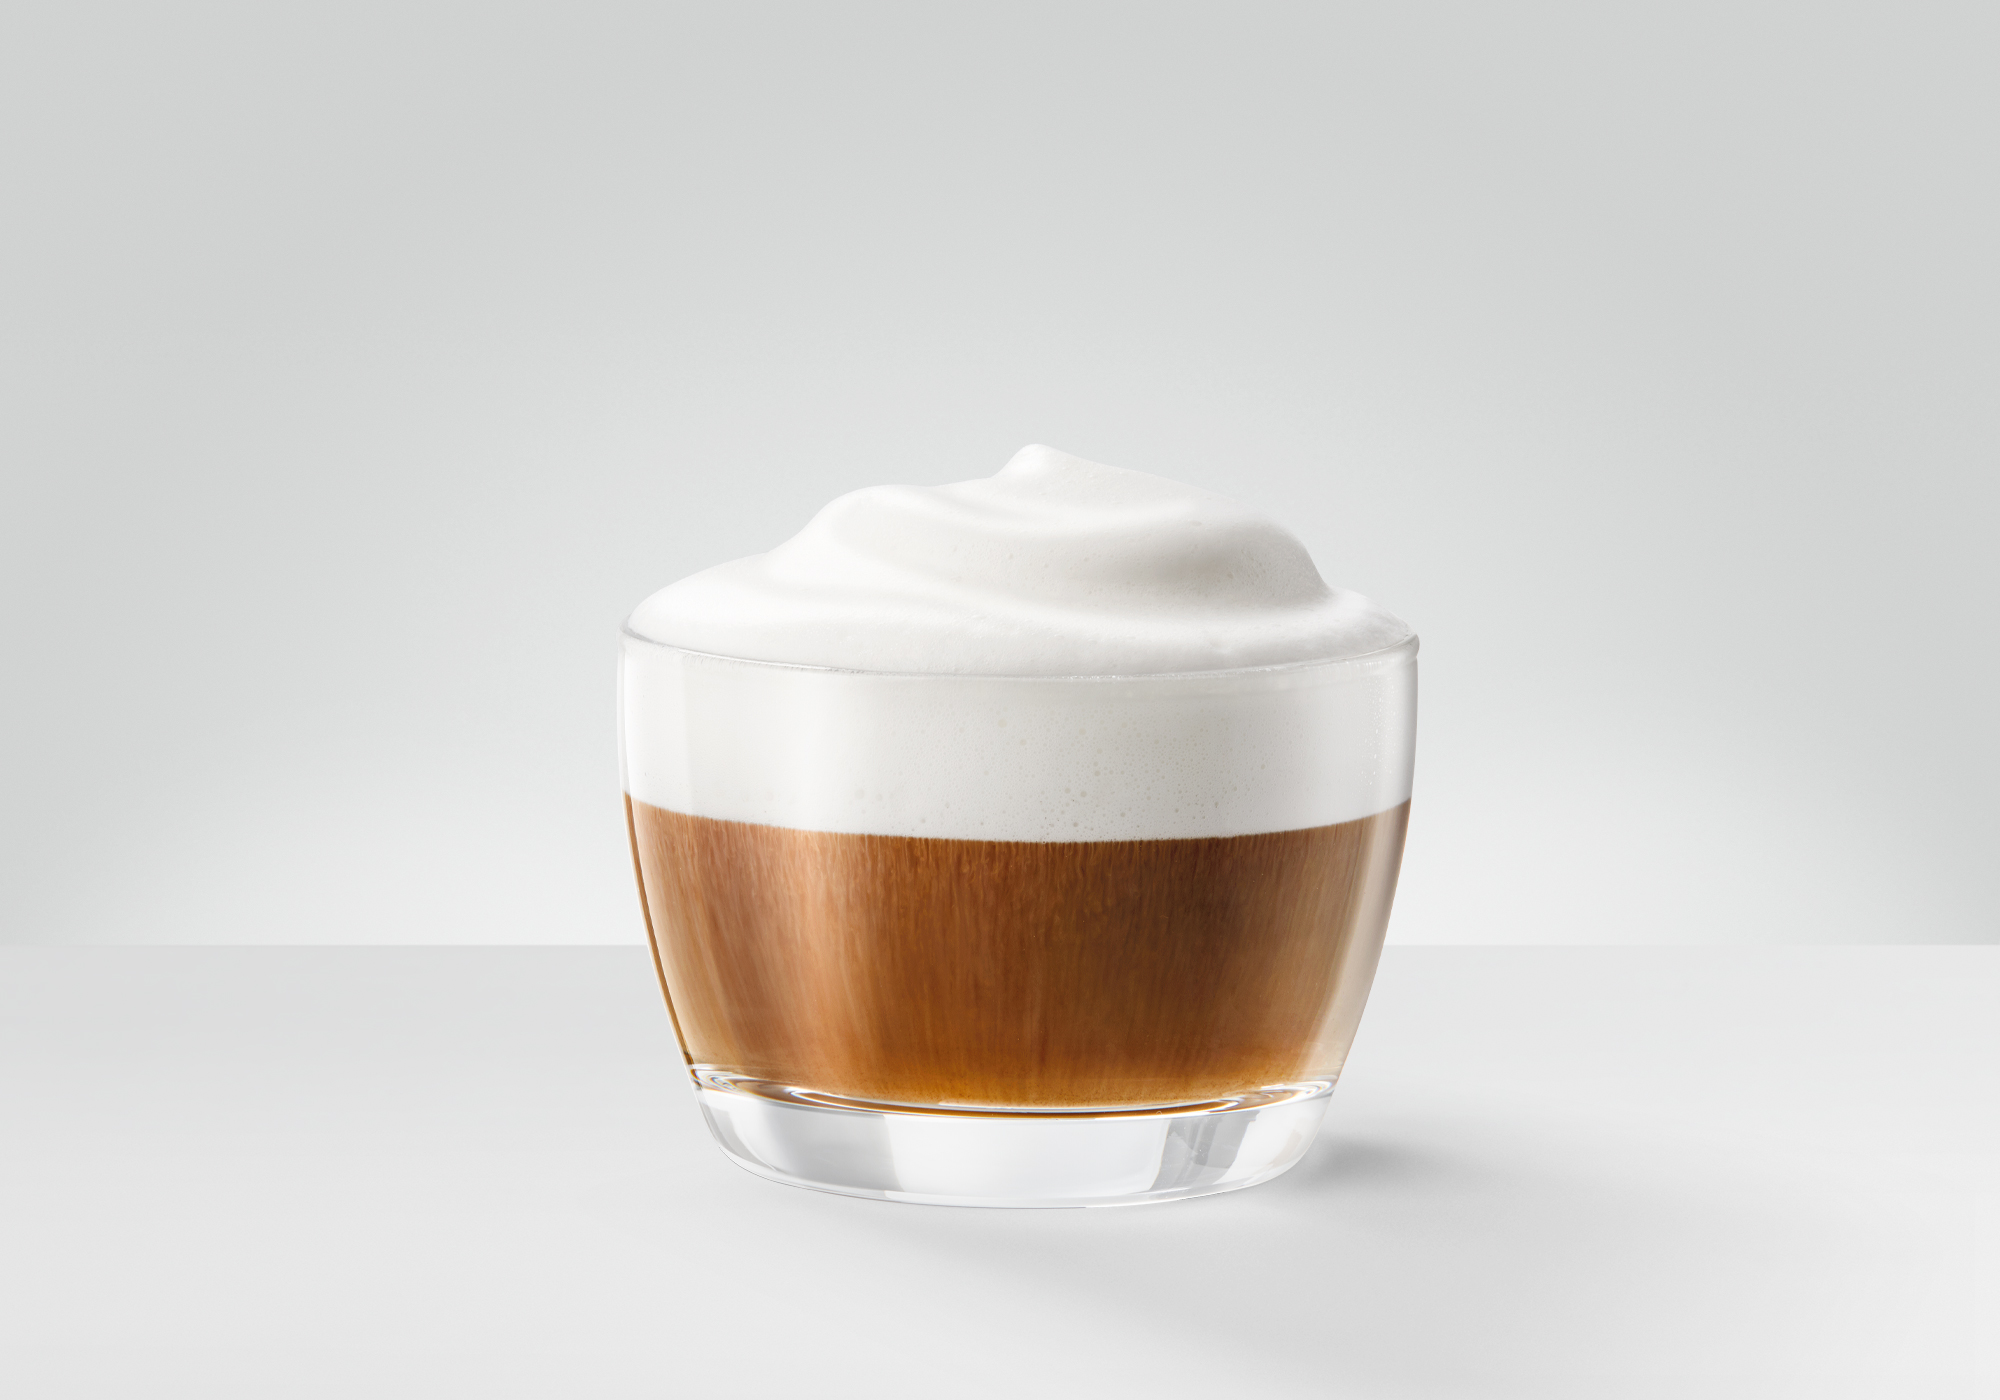
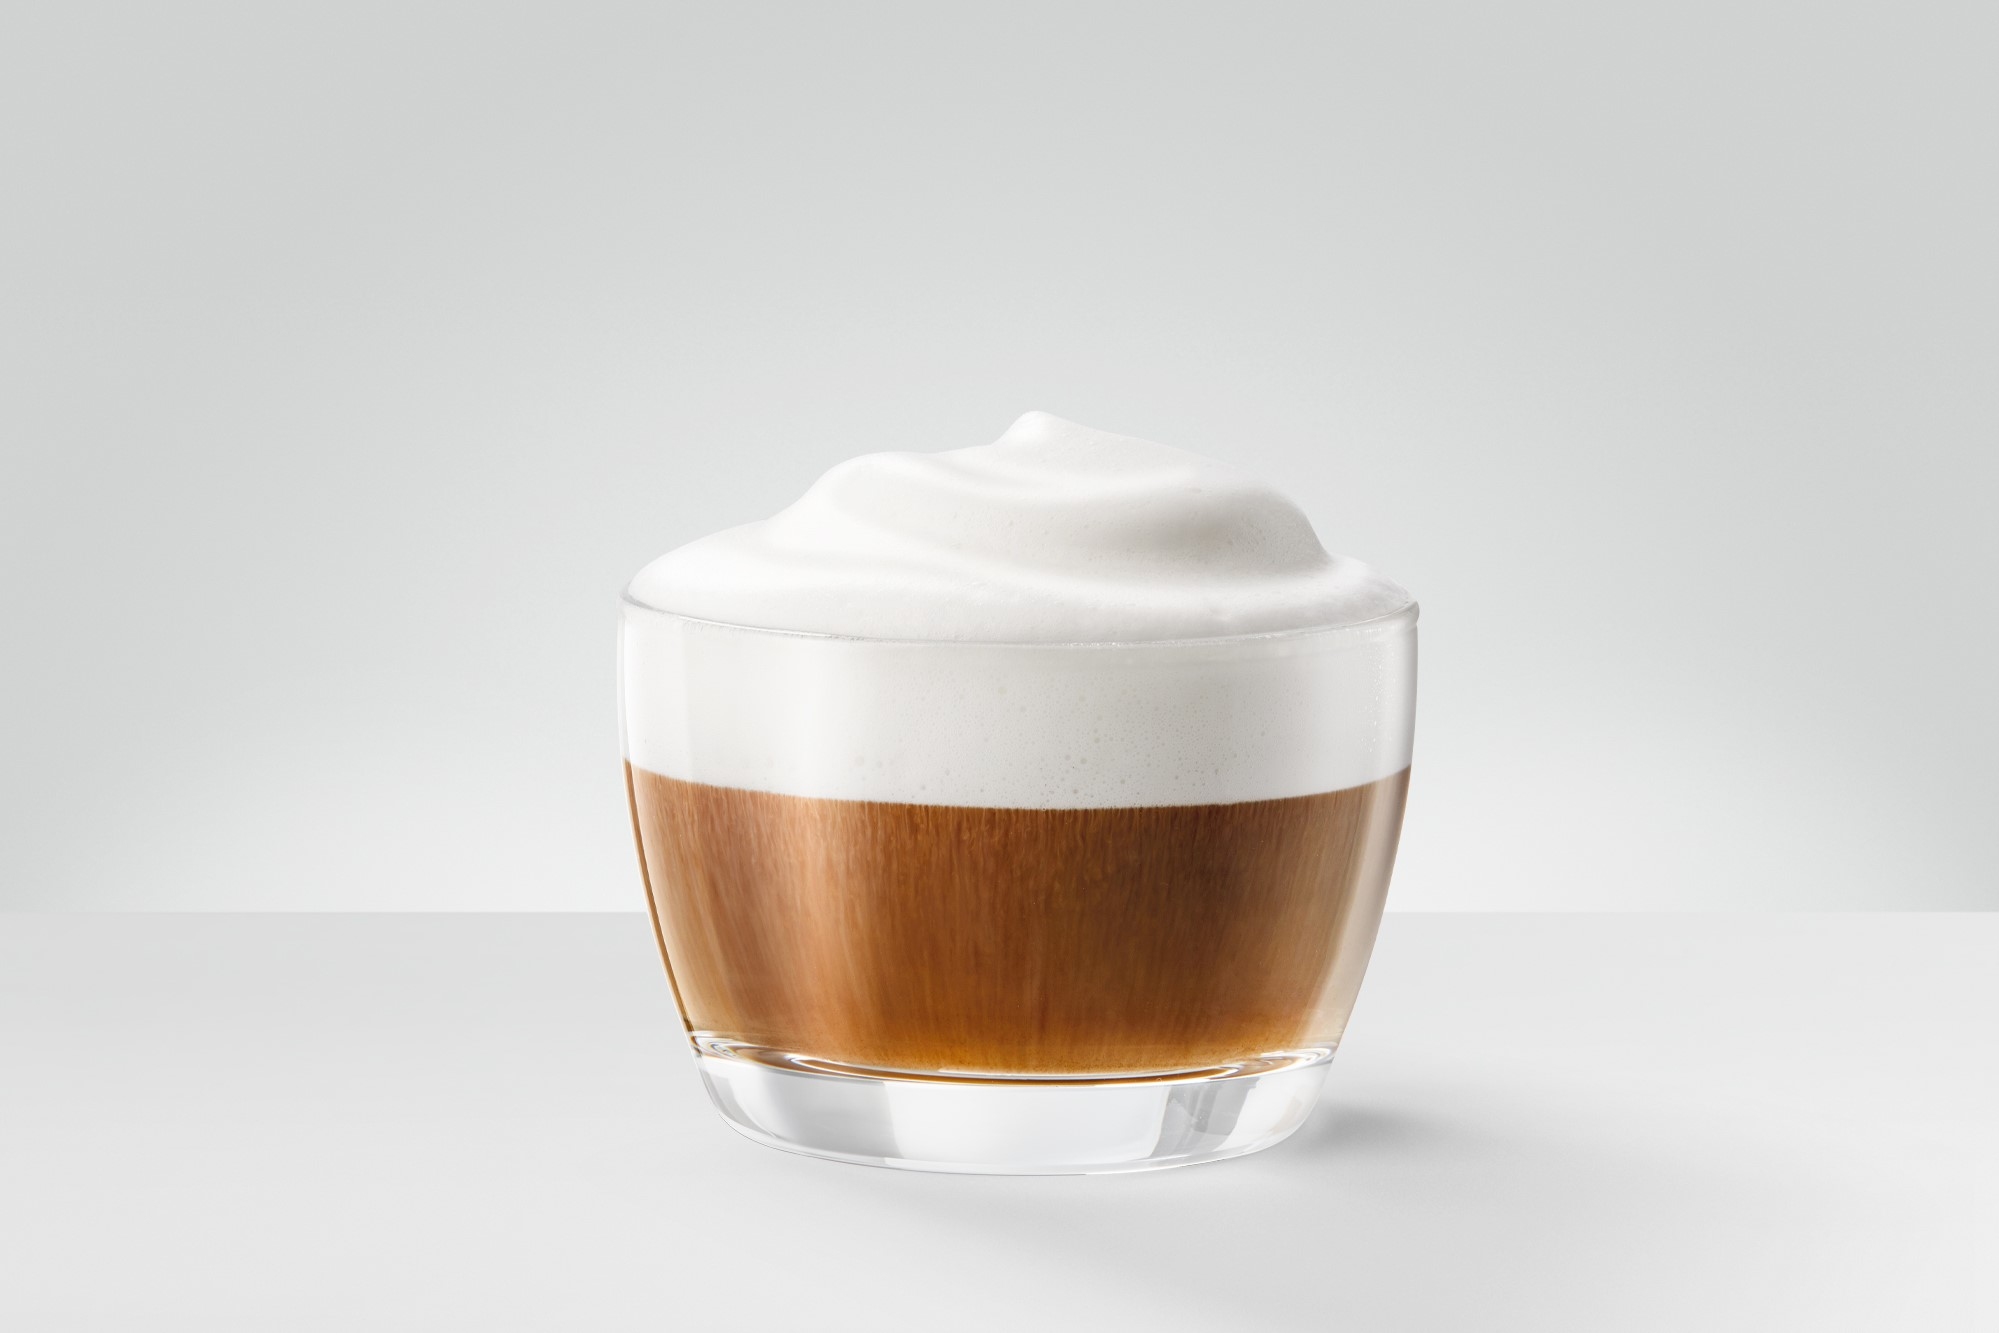
Added some style changes

diff --git a/index.html b/index.html
@@ -56,7 +56,7 @@
             <div class="container__aboutus">
                 <div class="box">
                     <div class="imgBox">
-                        <img src="images/about_us__placeholder.jpg" alt="">
+                        <img src="images/Portrait_Raphaela.jpg" alt="">
                     </div>
                     <div class="content">
                         <h5>Raphaela<br>
@@ -65,7 +65,7 @@
                 </div>
                 <div class="box">
                     <div class="imgBox">
-                        <img src="images/about_us__placeholder.jpg" alt="">
+                        <img src="images/Portrait_Beytullah.jpg" alt="">
                     </div>
                     <div class="content">
                         <h5>Beytullah<br>
@@ -74,7 +74,7 @@
                 </div>
                 <div class="box">
                     <div class="imgBox">
-                        <img src="images/about_us__placeholder.jpg" alt="">
+                        <img src="images/Portrait_Michael.jpg" alt="">
                     </div>
                     <div class="content">
                         <h5>Michael<br>
@@ -83,7 +83,7 @@
                 </div>
                 <div class="box">
                     <div class="imgBox">
-                        <img src="images/about_us__placeholder.jpg" alt="">
+                        <img src="images/Portrait_Alexander.jpg" alt="">
                     </div>
                     <div class="content">
                         <h5>Alexander<br>
@@ -97,8 +97,8 @@
         <!-- Timeline by Ondrej - https://jsfiddle.net/bootstrapious/47s0u6yp/ -->
         <div class="container py-5">
             <div class="row">
-                <h2>Bean to cup</h2>
-                <p>Kaffee gehört für die meisten Menschen zum alltäglichen Leben wie Zähneputzen: Der morgendliche
+                <h1>Bean to cup</h1>
+                <p class="description">Kaffee gehört für die meisten Menschen zum alltäglichen Leben wie Zähneputzen: Der morgendliche
                     Kaffee zum Frühstück, Kaffee trinken mit Freunden oder beim Kundentermin, der Espresso nach dem
                     Essen oder gegen das Nachmittagstief – unser täglicher Begleiter sozusagen. Aber hast du schon mal
                     darüber nachgedacht, was Kaffee eigentlich ist (eine Bohne, ein Gemüse, eine Frucht?), wie er
@@ -352,7 +352,7 @@
                         </div>
                     </div>
                     <div class="carousel-item">
-                        <img src="images/cafe-latte.webp" class="d-block w-100" alt="...">
+                        <img src="images/cafe-latte.jpg" class="d-block w-100" alt="...">
                         <div class="carousel-caption d-none d-md-block">
                             <h5>Cafe Latte</h5>
                             <p>Caffè Latte wird klassisch mit einem doppelten Espresso, der mit reichlich heißer Milch aufgegossen wird, serviert.</p>
@@ -482,7 +482,7 @@
     </div>
 </footer>
 
-
+<!--
 <hr>
 
 <div class="styleguide">
@@ -549,6 +549,7 @@
         <div class="coffee-medium__cup"></div>
     </div>
 </div>
+-->
 <script type="text/javascript" src="./bootstrap-5.0.2/dist/js/bootstrap.min.js"></script>
 <script src="https://unpkg.com/aos@next/dist/aos.js"></script>
 <script>

diff --git a/css/timeline.css b/css/timeline.css
@@ -1,5 +1,13 @@
 /* Code by Ondrej - https://jsfiddle.net/bootstrapious/47s0u6yp/ */
 
+#timeline h1 {
+    text-align: center;
+}
+
+#timeline .description{
+    margin-top: 25px;
+}
+
 /* Timeline holder */
 ul.timeline {
     list-style-type: none;

diff --git a/css/header.css b/css/header.css
@@ -2,6 +2,9 @@
     max-width: 5em;
 }
 
+.hero{
+    margin-top: 0;
+}
 
 /* The hero image */
 .hero-img{
@@ -21,7 +24,6 @@
 .hero-text{
     text-align: left;
     color: #A06F35;
-
 }
 
 

diff --git a/css/base-styling.css b/css/base-styling.css
@@ -130,6 +130,10 @@ p {
   margin-bottom: 1rem;
 }
 
+section{
+  margin-top: 60px;
+}
+
 abbr[title],
 abbr[data-bs-original-title] {
   text-decoration: underline dotted;

diff --git a/css/aboutus.css b/css/aboutus.css
@@ -28,6 +28,10 @@
     transform: translate(2.5rem, 2.5rem);
 }
 
+.about-us h1{
+    text-align: center;
+}
+
 .imgBox {
     position: absolute;
     top: 0;

diff --git a/css/coffee-cup.css b/css/coffee-cup.css
@@ -1,3 +1,7 @@
+.coffee-cup h1{
+    margin: 80px 0 45px 0;
+}
+
 .coffee_container {
     width: 150px;
     height: 100px;

diff --git a/css/flip-cards.css b/css/flip-cards.css
@@ -33,7 +33,6 @@
 }
 
 .flip-card-front {
-    background-color: yellow;
     color: black;
 }
 
